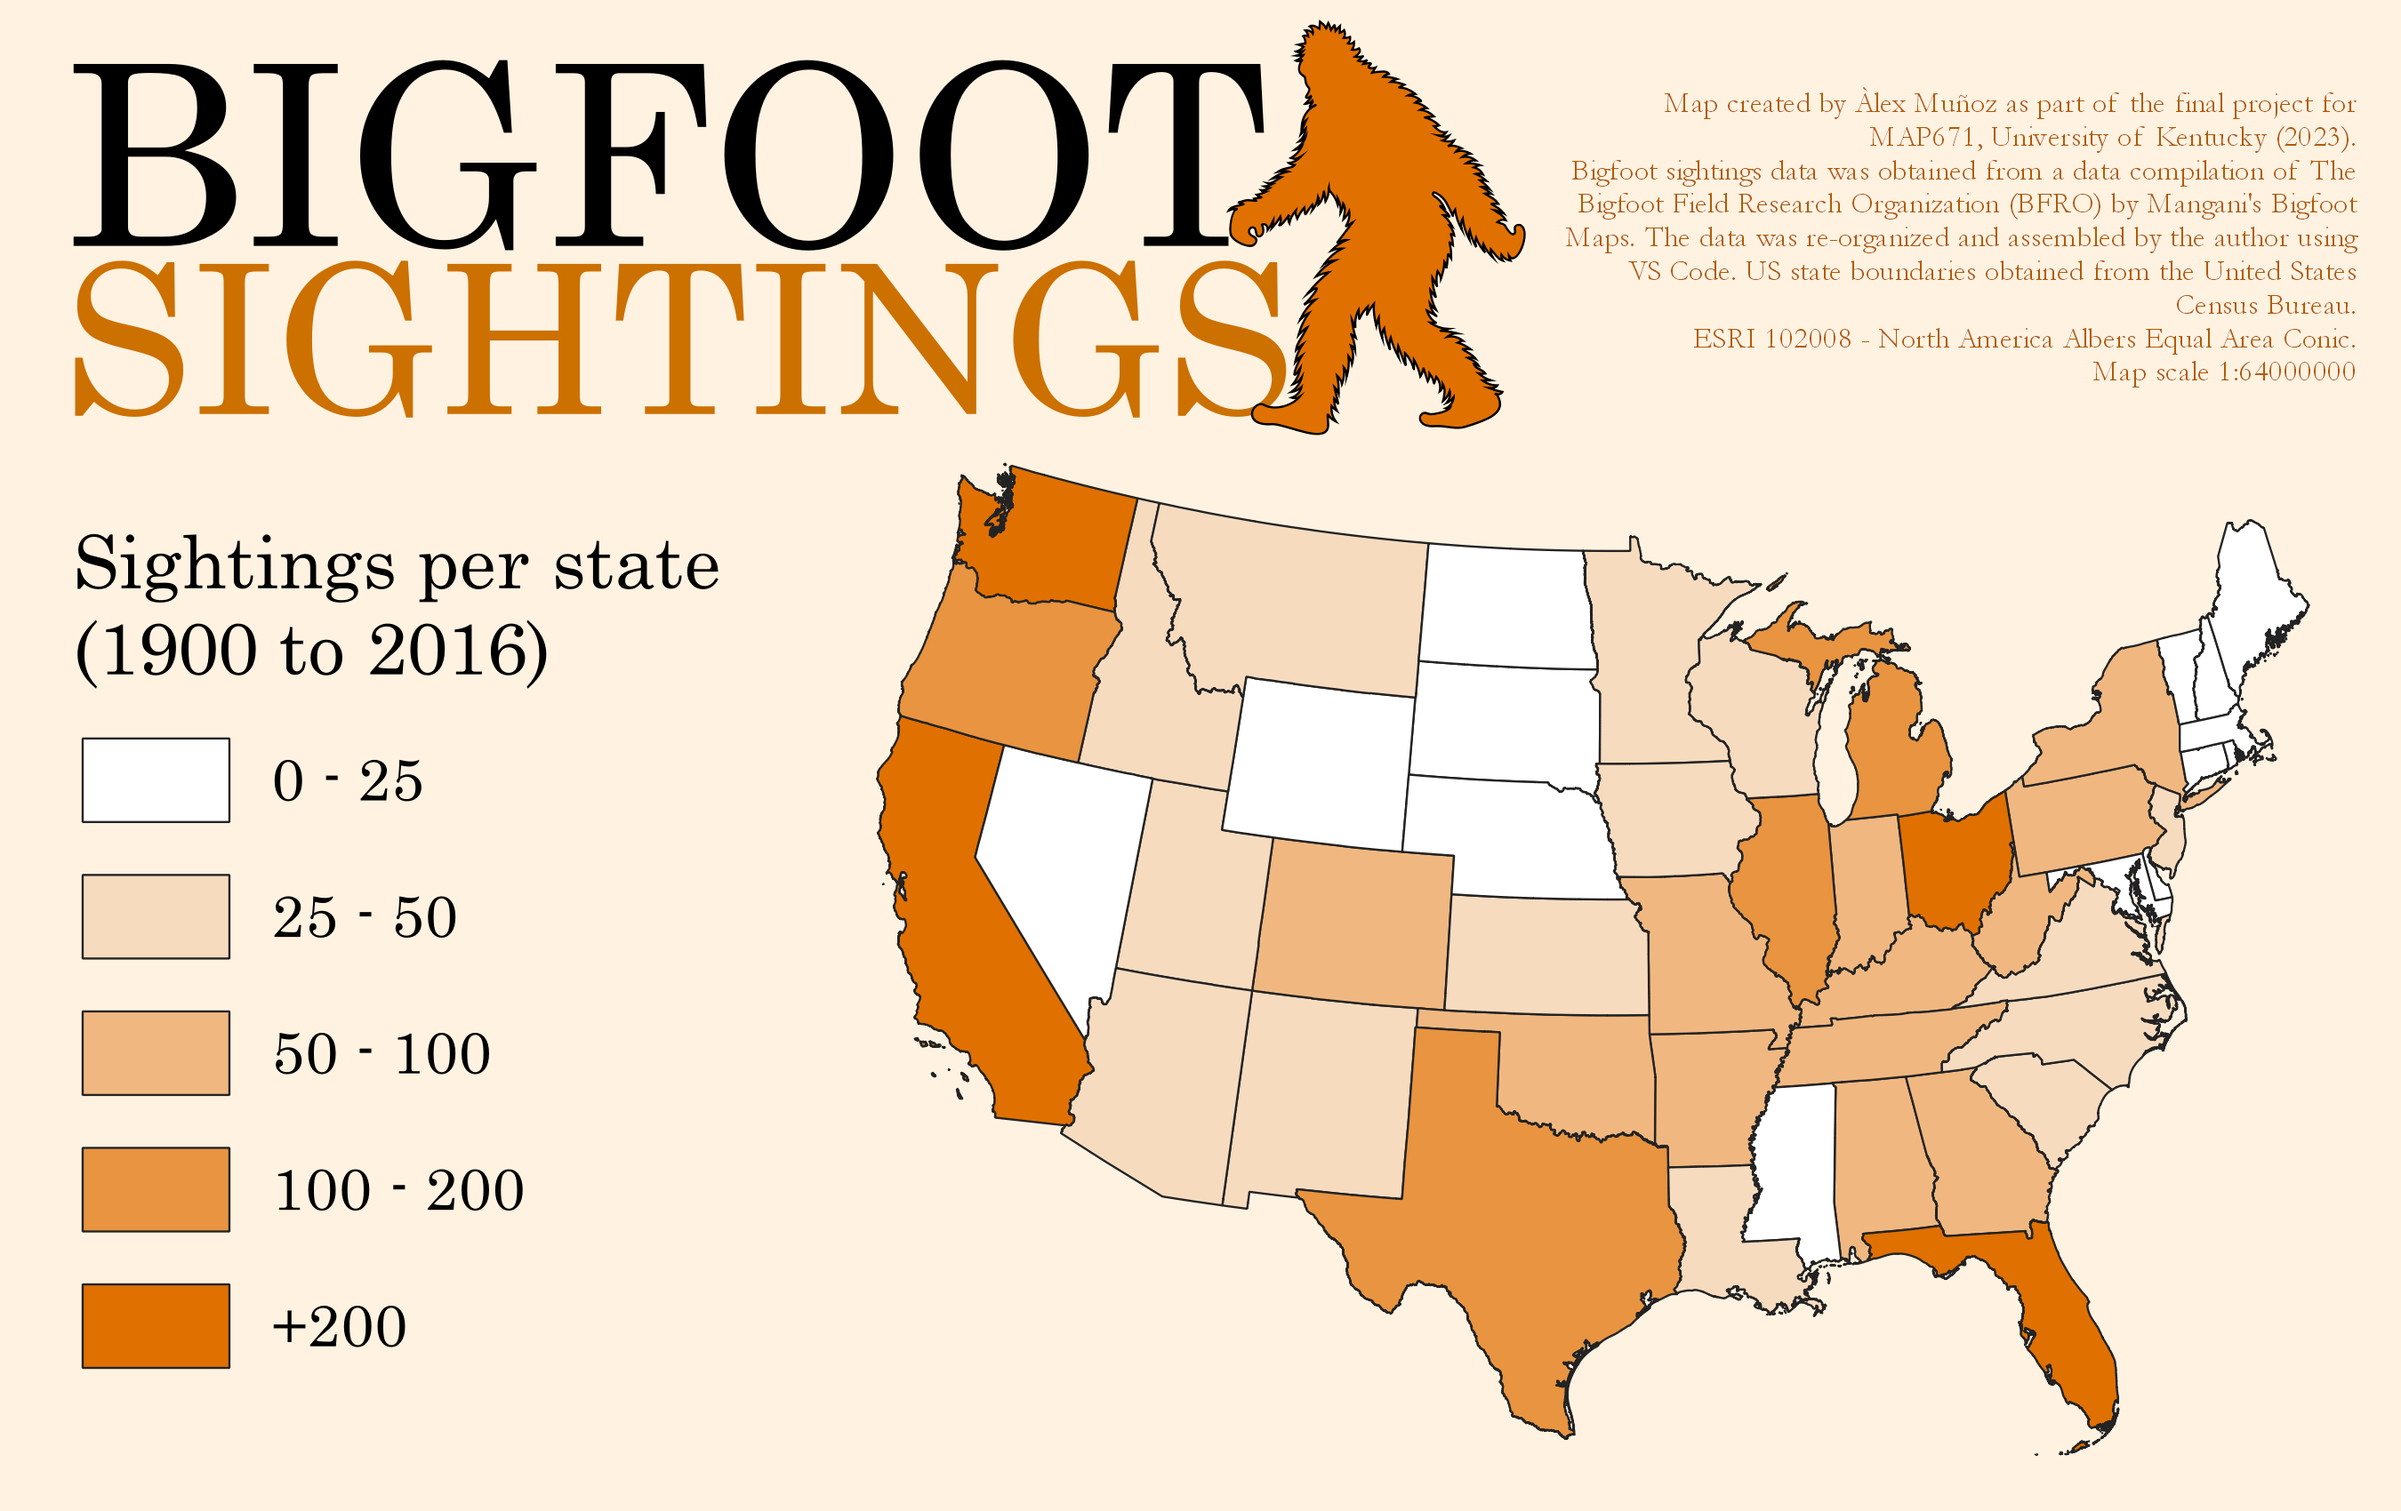
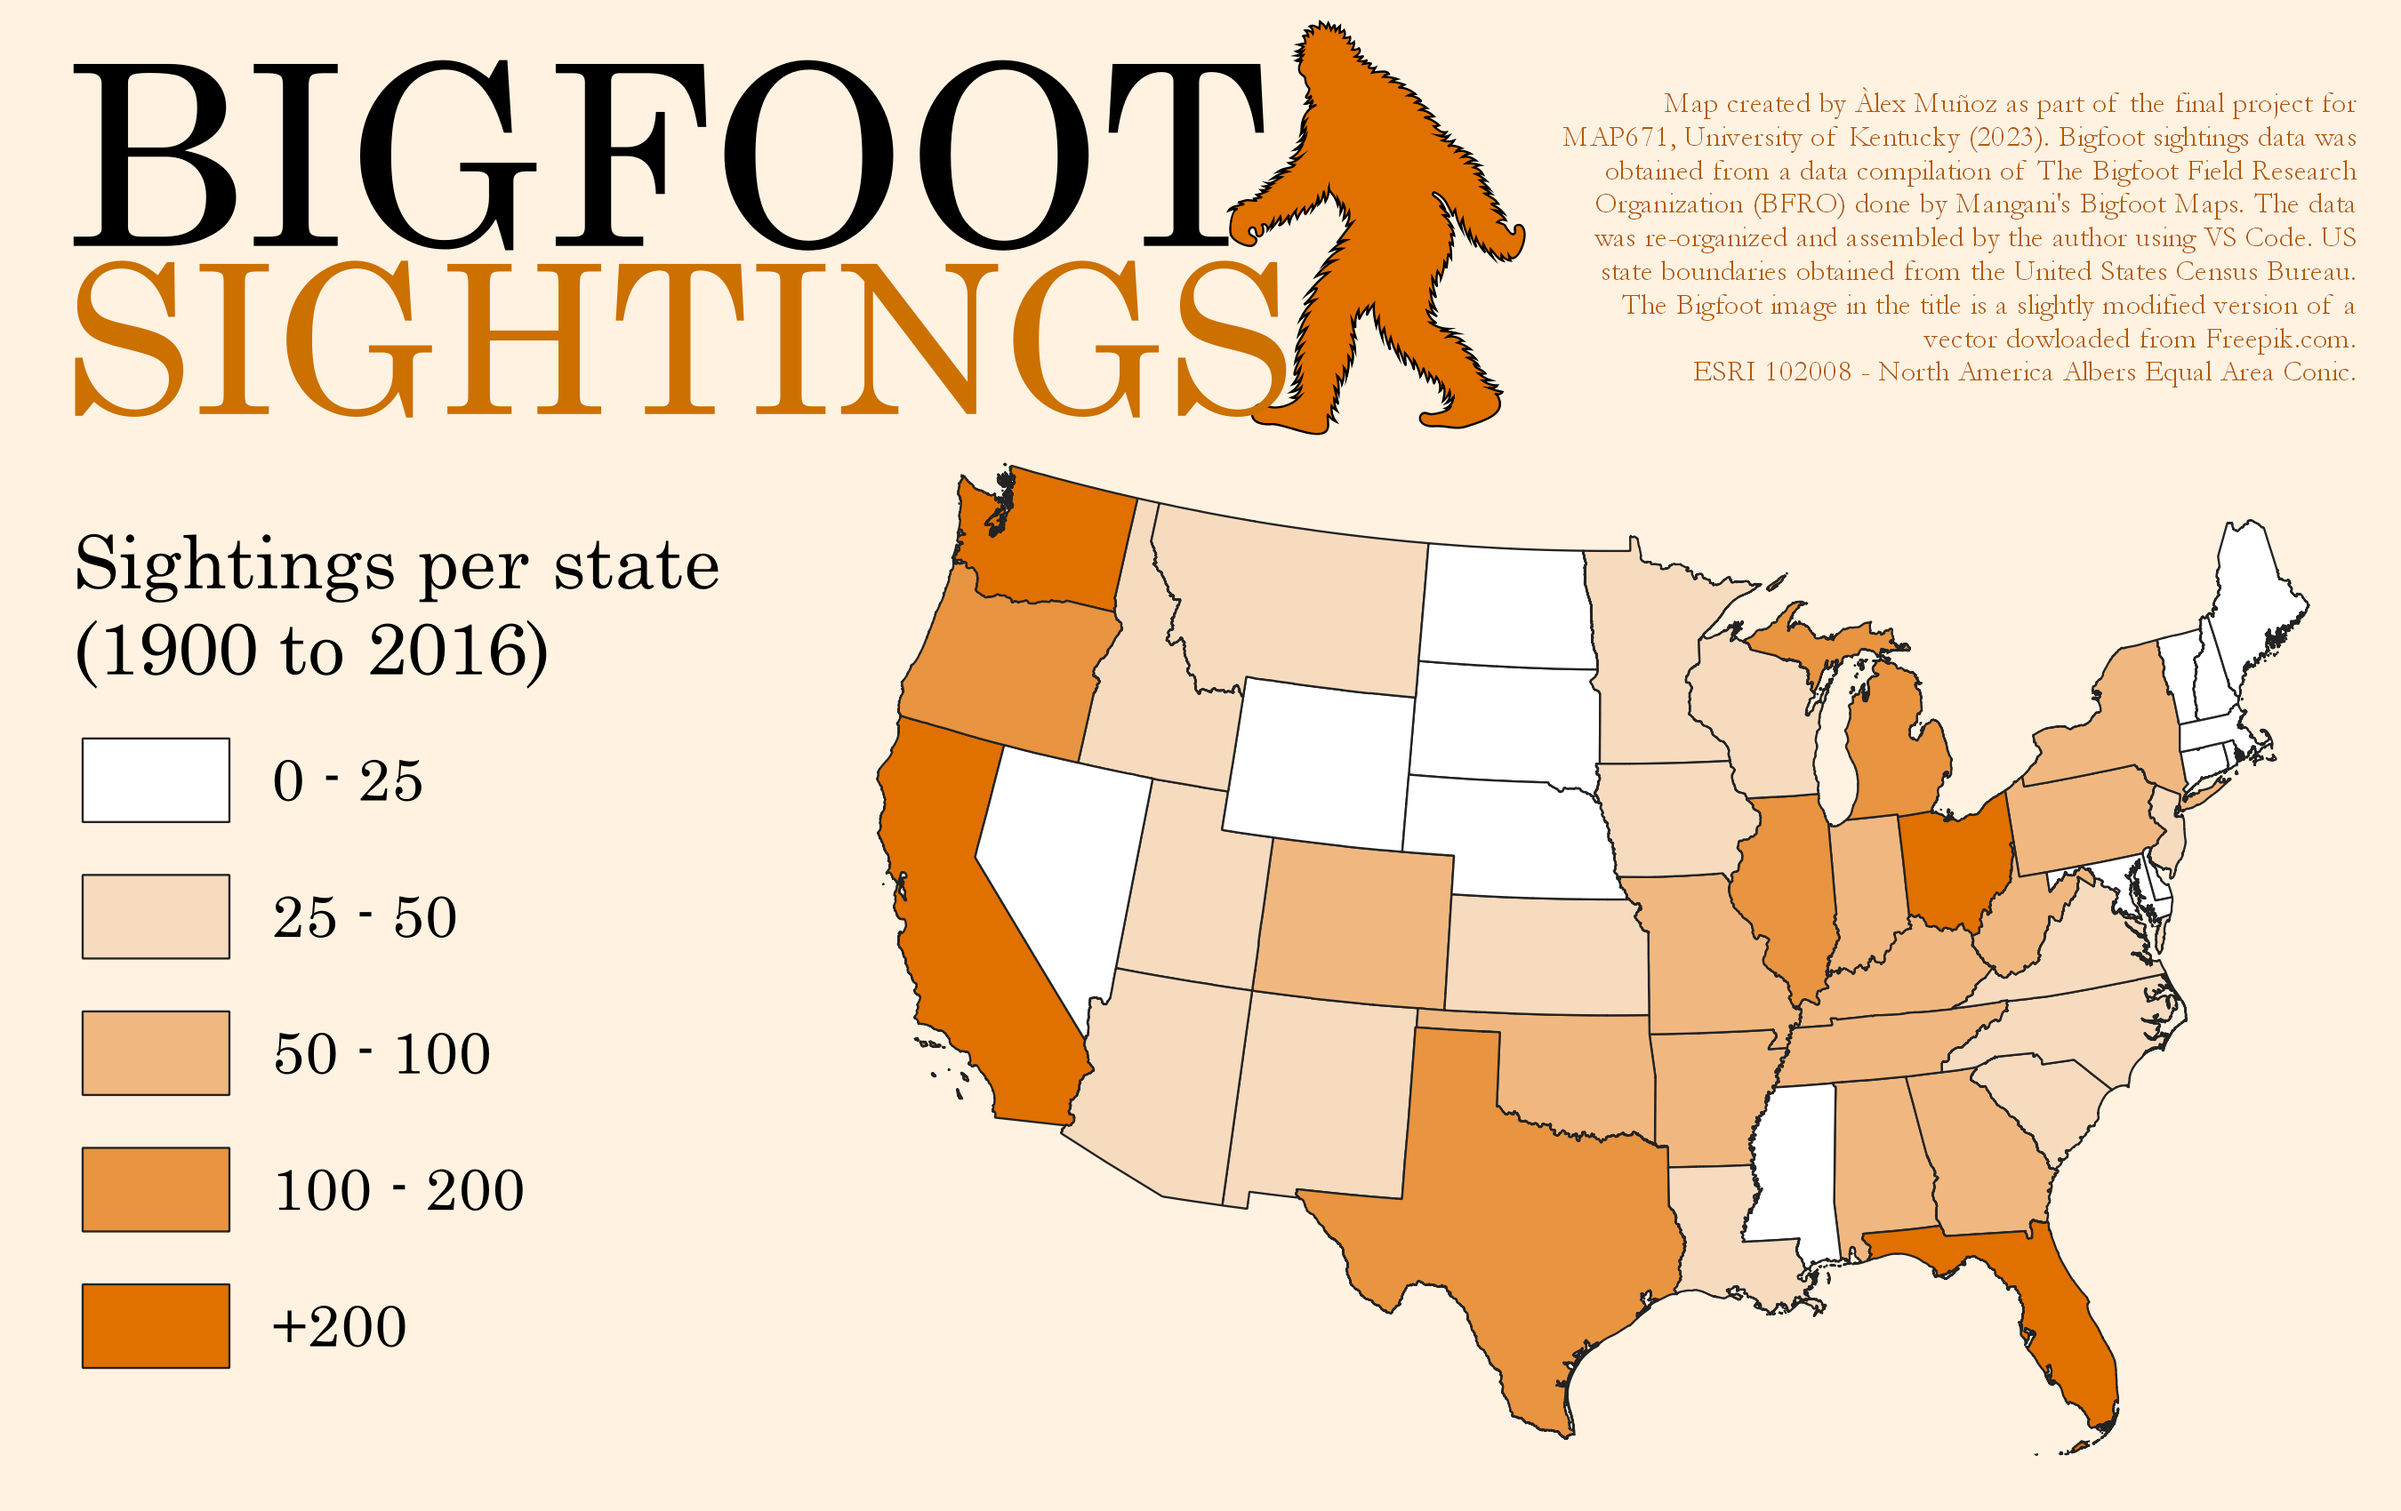
edit-maps&index

Changed region(s): [[0.6533, 0.0624, 0.9956, 0.2494]]

diff --git a/index.html b/index.html
@@ -137,14 +137,27 @@
         <h2>Àlex Muñoz Viso (he/him/his), MAP671 Final Project</h2>
         <div class="row">
             <div class="first-column">
+                <h3>Project Introduction</h3>
+                <p>
+                    For the final project of MAP671, I wanted to create a map representing 
+                    curious data. Looking for different themes, I stumbled upon <a hred="http://www.bfro.net">The Bigfoot Field Research Organization (BFRO)</a>, a website compiling 
+                    different databases of Bigfoot encounters including sightings, audible sightings, trackmarks, or footprints. Every report included in these databases is 
+                    geocoded and timestamped. </p>
+
+                <p> 
+                    Although I am not the 'I believe' type or into conspiracy theories, I thought it could be fun to map this data. Moreover, the BFRO accepts online submissions 
+                    of Bigfoot sighting reports, which adds a certain sense of community data crowdsourcing and community mapping to their project; two research topics that are of great 
+                    personal interest.
+                </p>
+
                 <h3>Data Sources</h3>
                 <p>
-                    I built my <b>Bigfoot sightings database</b> using the 2016 updated creature sighting database from <a hred="http://www.bfro.net">The Bigfoot Field Research Organization (BFRO)</a> 
-                    summarized by <a hred="http://penn.freeservers.com/bigfootmaps">Mangani's Bigfoot Maps</a>. <b>2022 United States county and state boundaries</b> were obtained from the <a hred="https://www.census.gov/geographies/mapping-files/time-series/geo/cartographic-boundary">United States Census Bureau website</a>.
+                    I built my <b>Bigfoot sightings database</b> using the 2016 updated creature sighting data from the <a hred="http://www.bfro.net">BFRO</a> 
+                    summarized by <a hred="http://penn.freeservers.com/bigfootmaps">Mangani's Bigfoot Maps</a>. The <b>2022 United States county and state boundaries</b> were obtained from the <a hred="https://www.census.gov/geographies/mapping-files/time-series/geo/cartographic-boundary">United States Census Bureau website</a>.
                 </p>
                 <h3>Other Sources</h3>
                 <p>
-                    The Bigfoot miniature used as the webmap report symbol and at the header of this site is a slightly modified version of a vector downladed from <a hred="https://www.freepik.com/">Freepik</a>.
+                    The Bigfoot miniature used all over this project is a slightly modified version of a vector downladed from <a hred="https://www.freepik.com/">Freepik</a>.
                 </p>
                 
                 <h3>Tools used in this project</h3>
@@ -156,42 +169,53 @@
                 </ul>
                         
                 </p>
-                <h3>Static Maps from the Project</h3>
+                <h3>Project Static Maps</h3>
                 <p>
-                    Aside from the webmap available at the top of this page, I built three static maps for this project:
+                    Aside from the webmap available at the top of this page, I built three static maps for this project. They are designed to be presented together as each 
+                    map offers distinct nuances from the same data.
                     <ul>
-                        <li><a href="#Big Foot Sightings by State">Big Foot Sightings by State</a><br /></li>
-                        <li><a href="#Big Foot Sightings by County">Big Foot Sightings by County</a><br /></li>
-                        <li><a href="#Big Foot Sighting Reports (1900-2016)">Big Foot Sighting Reports (1900-2016)</a><br /></li>
+                        <li><a href="#Bigfoot Sightings by State">Bigfoot Sightings by State</a><br /></li>
+                        <li><a href="#Bigfoot Sightings by County">Bigfoot Sightings by County area</a><br /></li>
+                        <li><a href="#Bigfoot Sighting Reports (1900-2016)">Bigfoot Sighting Reports (1900-2016)</a><br /></li>
                     </ul>
                 </p>
                 
-                <h4><a id="Big Foot Sightings by State">Big Foot Sightings by State</a></h4>
+                <h4><a id="Bigfoot Sightings by State">Bigfoot Sightings by State</a></h4>
                 <p>
-                    The Bigfoot miniature used as the webmap report symbol and at the header of this site is a slightly modified version of a vector downladed from <a hred="https://www.freepik.com/">Freepik</a>.
+                    The first map represents Bigfoot sightings from 1900 to 2016 per state as a choropleth map. The values were not normalized because I wanted to provide 
+                    a first map that could be read easily. The District of Columbia is the only state with zero sightings. Because of its small size, it cannot be seen as a sole 
+                    record so, I decided include in a single category all the states with zero to twenty-five reports. 
                 </p>
 
-                <img class="max-image-width" src="maps/map1-states600dpi.png"
+                <img class="max-image-width" src="maps/map1-states600dpi.png"  alt="Failed to load: Map showing reported Bigfoot Sightings per state from 1900 to 2016"
                     title="Gray&#x27;s Arch">
-                <div class="linkbox">Photograph by Boyd Shearer</div>
 
-                <h4><a id="Big Foot Sightings by County">Big Foot Sightings by County</a></h4>
+                <h4><a id="Bigfoot Sightings by County">Bigfoot Sightings by County area</a></h4>
                 <p>
-                    The Bigfoot miniature used as the webmap report symbol and at the header of this site is a slightly modified version of a vector downladed from <a hred="https://www.freepik.com/">Freepik</a>.
+                    The second map represents Bigfoot sightings per county. Instead of visualizing the total number of reports in each county, I opted for showing a normalized
+                    measure, as it represents geography in a more faithful way, accounting for each countiy's size. Because the three maps are designed to be displayed together, 
+                    this second map is not aiming at offering a clear information graphic (as the first map did) but a more nuanced picture than that of the first map.
                 </p>
 
-                <img class="max-image-width" src="https://farm8.staticflickr.com/7418/27278443166_b1babc3b16_b.jpg"
+                <img class="max-image-width" src="maps/map2-counties600dpi.png"  alt="Failed to load: Map showing Bigfoot sighting density by county"
                     title="Gray&#x27;s Arch">
-                <div class="linkbox">Photograph by Boyd Shearer</div>
 
-                <h4><a id="Big Foot Sighting Reports (1900-2016)">Big Foot Sighting Reports (1900-2016)</a></h4>
+                <h4><a id="Bigfoot Sighting Reports (1900-2016)">Bigfoot Sighting Reports (1900-2016)</a></h4>
                 <p>
-                    The Bigfoot miniature used as the webmap report symbol and at the header of this site is a slightly modified version of a vector downladed from <a hred="https://www.freepik.com/">Freepik</a>.
+                    The third map represents all Bigfoot sighting reports in my database as single symbols in a map of the contiguous United States. I wanted to include this map
+                    because I think it is the one that offers the information in a more visually striking way. Seen together with the other maps, one can better understand sightening 
+                    clusterings and start asking interesting geographical questions.
                 </p>
 
-                <img class="max-image-width" src="https://farm8.staticflickr.com/7418/27278443166_b1babc3b16_b.jpg"
+                <img class="max-image-width" src="maps/map3-reports600dpi.png" alt="Failed to load: Map showing reported Bigfoot Sightings from 1900 to 2016"
                     title="Gray&#x27;s Arch">
-                <div class="linkbox">Photograph by Boyd Shearer</div>
+
+                    <h3>Final thoughts</h3>
+                <p>
+                    This project was a playful way of reviewing and applying many of the topics, tools, and processes learned during the course. Moreover, the topic I chose allows for 
+                    very interesting reflections on the nature of data, the relationship between data and truth, or online data and mapping communities. Overall, I am happy with 
+                    the results of this project and I am really looking forward to continue the learning process next semester in MAP672.
+                </p>
 
             </div>
         </div>
